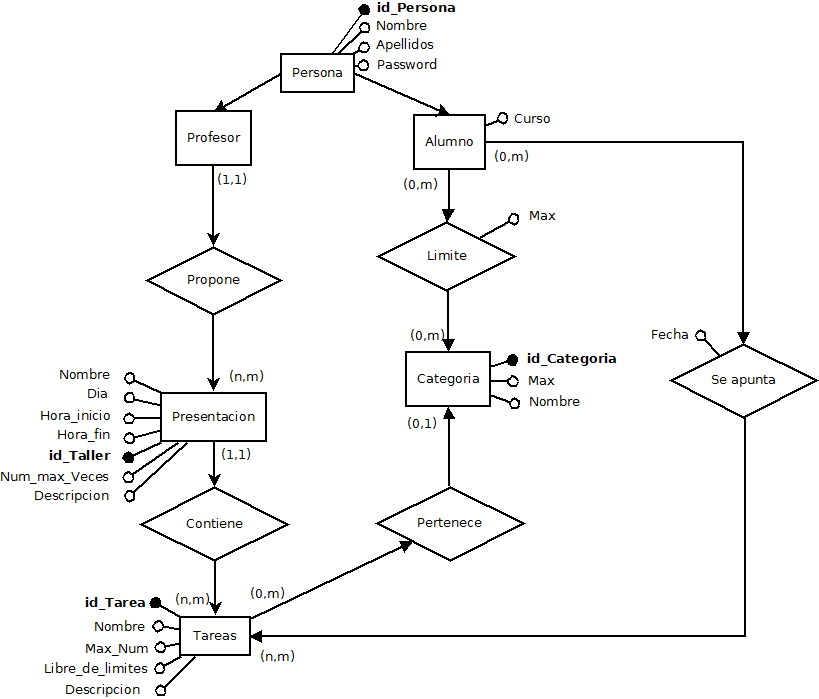
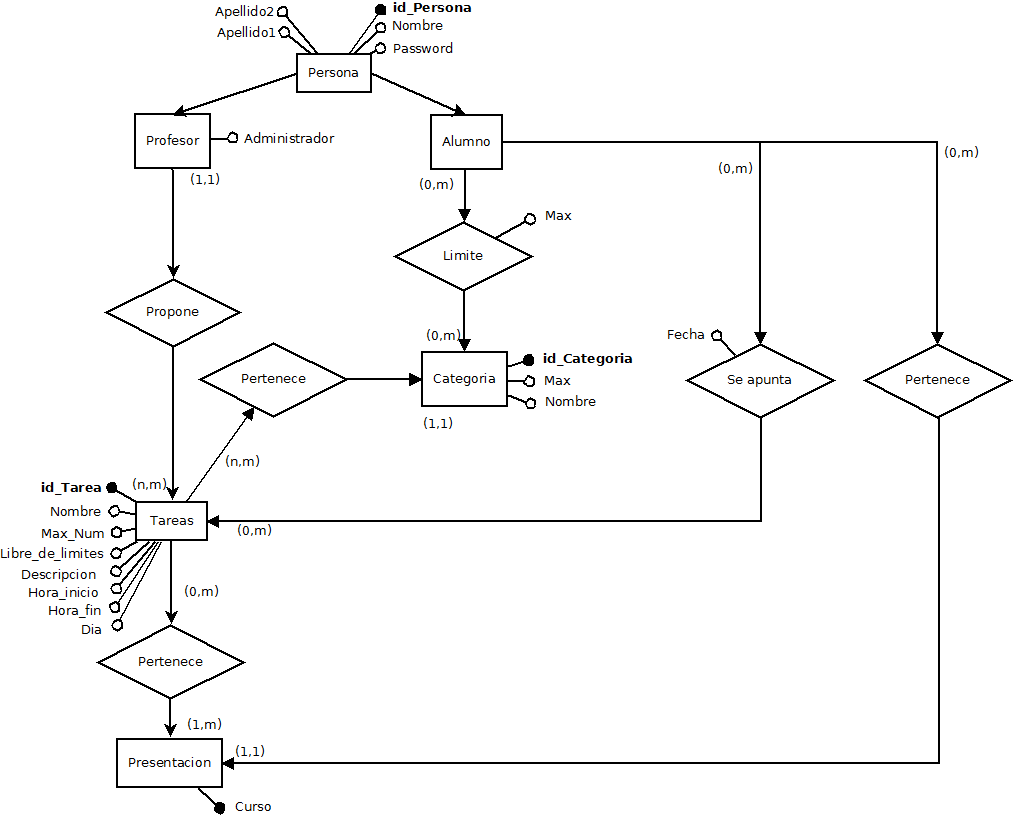
Cambio gordo en la bbdd relacionado con presentacion.

diff --git a/application/controllers/Alumno.php b/application/controllers/Alumno.php
@@ -5,43 +5,53 @@ defined('BASEPATH') OR exit('No direct script access allowed');
 class Alumno extends CI_Controller {
 
     public function index() {
-        $this->load->view('vista_alumno');
+        $this->load->view('vista_alumno'); 
     }
 
     public function apuntarse($id_tarea) {
         //1.-Comprobar si la tarea se permite por curso del alumno.
+        //
         //2.-Comprobar si la el alumno ha superado el limite por categoria
         //permitidos en los ultimos 30 dias en caso de que la opcion de 
         //libre_de_limites este en FALSE.
+        //
         //3.-Comprobar si el taller tiene plazas libres.
+        //
         //4.-El alumno solo puede apuntarse a talleres con fecha de semana 
         //siguiente o actual nunca del pasado.
+        //
         //5.-Comprobar si ya esta apuntado a esta tarea. Comparar la ultima
         //fecha de la tabla apuntar, si es posterior a la fecha actual el 
         //alumno ya esta apuntado.
+        //
         //6.-Si los puntos anteriores lo permite apuntar al alumno a la tarea.
+        //
+        //7.-Ir al metodo presentaciones.
     }
 
     public function desapuntarse() {
         //1.-Comprobar si el alumno esta apuntado a la tarea (si la fecha de
         //la tarea es posterior al dia actual, esta apuntado). 
-        
+        //
         //2.-Borrar la ultima fecha que sea mayor a fecha actual.
-        
-        //3.-Volver a vista_presentaciones
+        //
+        //3.-Volver a vista_presentaciones.
     }
 
+    //Muestra una lista de los talleres y presentaciones a las que el alumno
+    //se apuntó.
     public function historial() {
         //Pasar por parametro el array del historial a la vista y mostrar
         //vist_historial.
     }
-    
-    public function presentaciones() {
-        //1.-Conseguir presentaciones permitidas en el curso del alumno incluye 
-        //las que ya esta apuntado.
 
-        //2.-Mostrar vista_presentaciones. Le pasamos por parametro el array
-        //que tiene que mostrar (Todos)
+    //Muestra las presentaciónes a las que el alumno se puede apuntar.
+    public function presentacion() {
+        //1.-Conseguir tareas que pertenezcan a la presentacion del alumno curso.
+        //
+        //
+        //2.-Mostrar vista_tareas. Le pasamos por parametro el array
+        //que tiene que mostrar.
     }
 
 }

diff --git a/application/views/vista_presentaciones.php b/application/views/vista_presentaciones.php
@@ -1,0 +1,75 @@
+<?php
+defined('BASEPATH') OR exit('No direct script access allowed');
+?><!DOCTYPE html>
+<html lang="en">
+<head>
+	<meta charset="utf-8">
+	<title>Welcome to CodeIgniter</title>
+
+	<style type="text/css">
+
+	::selection { background-color: #E13300; color: white; }
+	::-moz-selection { background-color: #E13300; color: white; }
+
+	body {
+		background-color: #fff;
+		margin: 40px;
+		font: 13px/20px normal Helvetica, Arial, sans-serif;
+		color: #4F5155;
+	}
+
+	a {
+		color: #003399;
+		background-color: transparent;
+		font-weight: normal;
+	}
+
+	h1 {
+		color: #444;
+		background-color: transparent;
+		border-bottom: 1px solid #D0D0D0;
+		font-size: 19px;
+		font-weight: normal;
+		margin: 0 0 14px 0;
+		padding: 14px 15px 10px 15px;
+	}
+
+	code {
+		font-family: Consolas, Monaco, Courier New, Courier, monospace;
+		font-size: 12px;
+		background-color: #f9f9f9;
+		border: 1px solid #D0D0D0;
+		color: #002166;
+		display: block;
+		margin: 14px 0 14px 0;
+		padding: 12px 10px 12px 10px;
+	}
+
+	#body {
+		margin: 0 15px 0 15px;
+	}
+
+	p.footer {
+		text-align: right;
+		font-size: 11px;
+		border-top: 1px solid #D0D0D0;
+		line-height: 32px;
+		padding: 0 10px 0 10px;
+		margin: 20px 0 0 0;
+	}
+
+	#container {
+		margin: 10px;
+		border: 1px solid #D0D0D0;
+		box-shadow: 0 0 8px #D0D0D0;
+	}
+	</style>
+</head>
+<body>
+
+<div id="container">
+    Vista presentaciones
+</div>
+
+</body>
+</html>

diff --git a/application/views/vist_historial.php b/application/views/vist_historial.php
@@ -1,0 +1,75 @@
+<?php
+defined('BASEPATH') OR exit('No direct script access allowed');
+?><!DOCTYPE html>
+<html lang="en">
+<head>
+	<meta charset="utf-8">
+	<title>Welcome to CodeIgniter</title>
+
+	<style type="text/css">
+
+	::selection { background-color: #E13300; color: white; }
+	::-moz-selection { background-color: #E13300; color: white; }
+
+	body {
+		background-color: #fff;
+		margin: 40px;
+		font: 13px/20px normal Helvetica, Arial, sans-serif;
+		color: #4F5155;
+	}
+
+	a {
+		color: #003399;
+		background-color: transparent;
+		font-weight: normal;
+	}
+
+	h1 {
+		color: #444;
+		background-color: transparent;
+		border-bottom: 1px solid #D0D0D0;
+		font-size: 19px;
+		font-weight: normal;
+		margin: 0 0 14px 0;
+		padding: 14px 15px 10px 15px;
+	}
+
+	code {
+		font-family: Consolas, Monaco, Courier New, Courier, monospace;
+		font-size: 12px;
+		background-color: #f9f9f9;
+		border: 1px solid #D0D0D0;
+		color: #002166;
+		display: block;
+		margin: 14px 0 14px 0;
+		padding: 12px 10px 12px 10px;
+	}
+
+	#body {
+		margin: 0 15px 0 15px;
+	}
+
+	p.footer {
+		text-align: right;
+		font-size: 11px;
+		border-top: 1px solid #D0D0D0;
+		line-height: 32px;
+		padding: 0 10px 0 10px;
+		margin: 20px 0 0 0;
+	}
+
+	#container {
+		margin: 10px;
+		border: 1px solid #D0D0D0;
+		box-shadow: 0 0 8px #D0D0D0;
+	}
+	</style>
+</head>
+<body>
+
+<div id="container">
+    Vista historial
+</div>
+
+</body>
+</html>

diff --git a/application/controllers/Profesor.php b/application/controllers/Profesor.php
@@ -8,4 +8,17 @@ class Profesor extends CI_Controller {
         $this->load->view('vista_profesor');
     }
 
+    public function crear_presentacion() {
+
+        }
+
+    public function nueva_tarea() {
+        //1.-Recoger los datos por post.
+        //
+        //2.-Comprobar si existe la presentación.
+        //
+        //3.-Comprobar si el profesor tiene otras tareas a la misma hora.
+        //
+        }
+
 }
